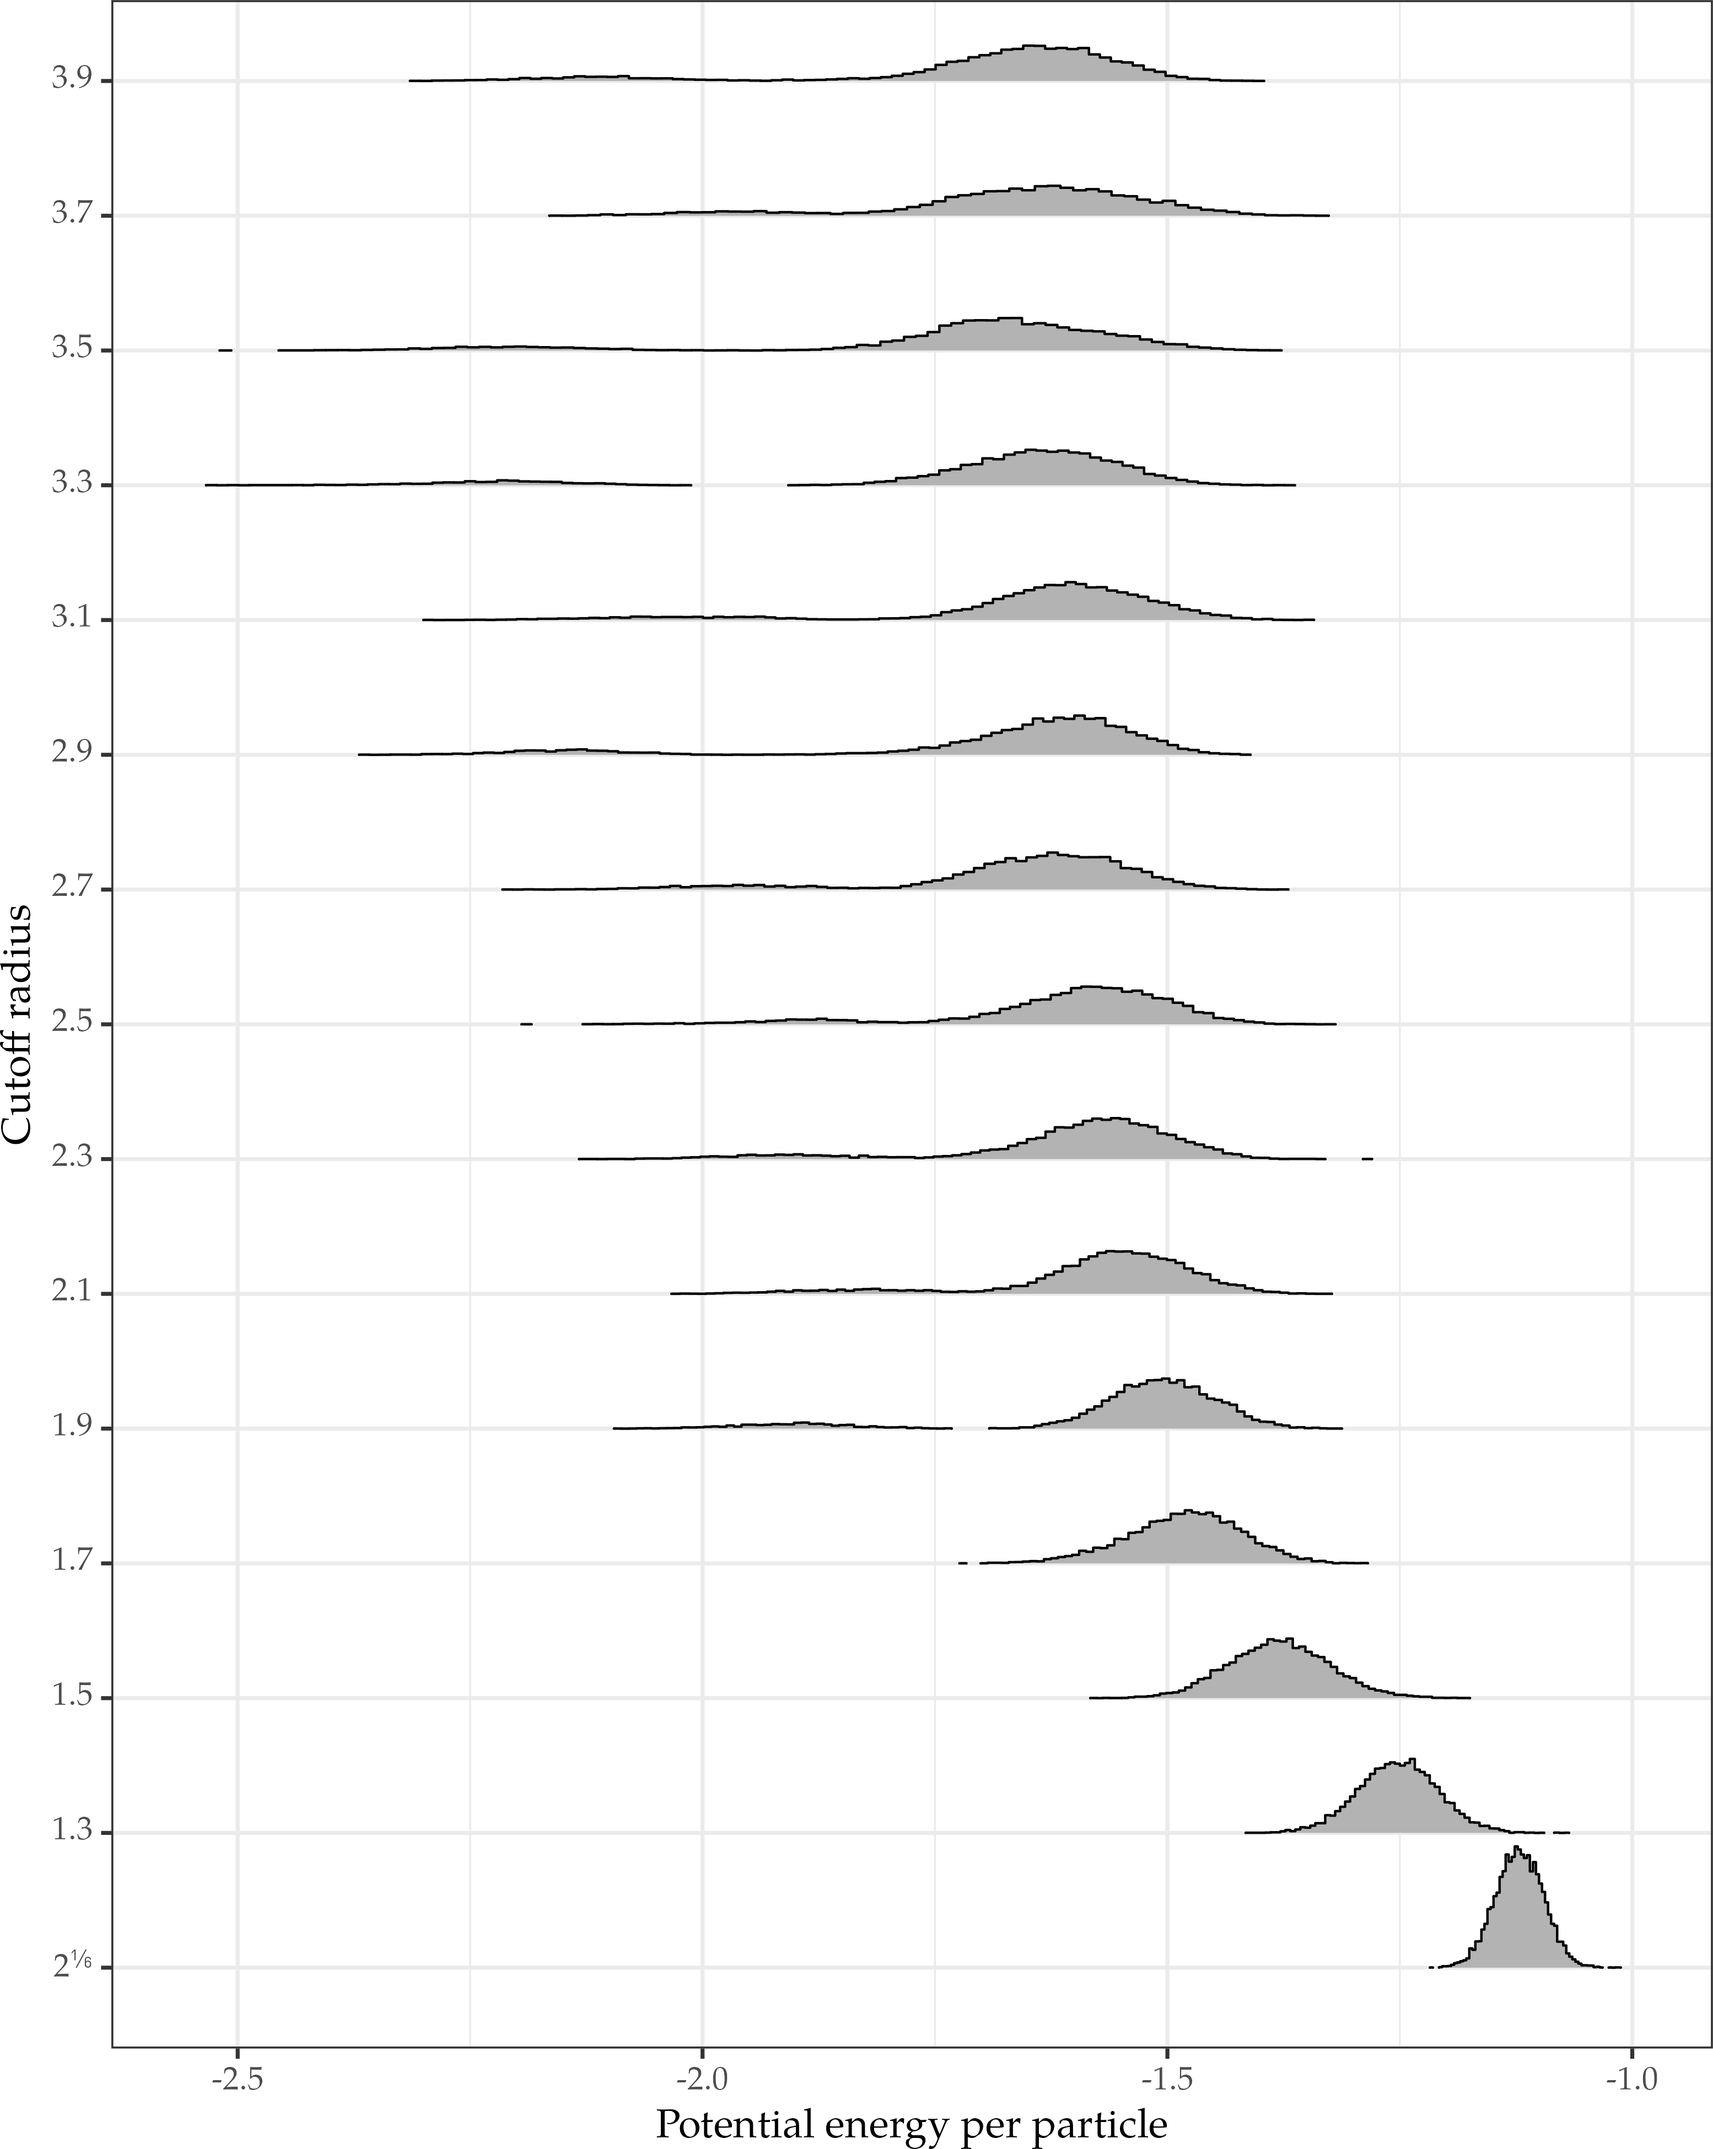
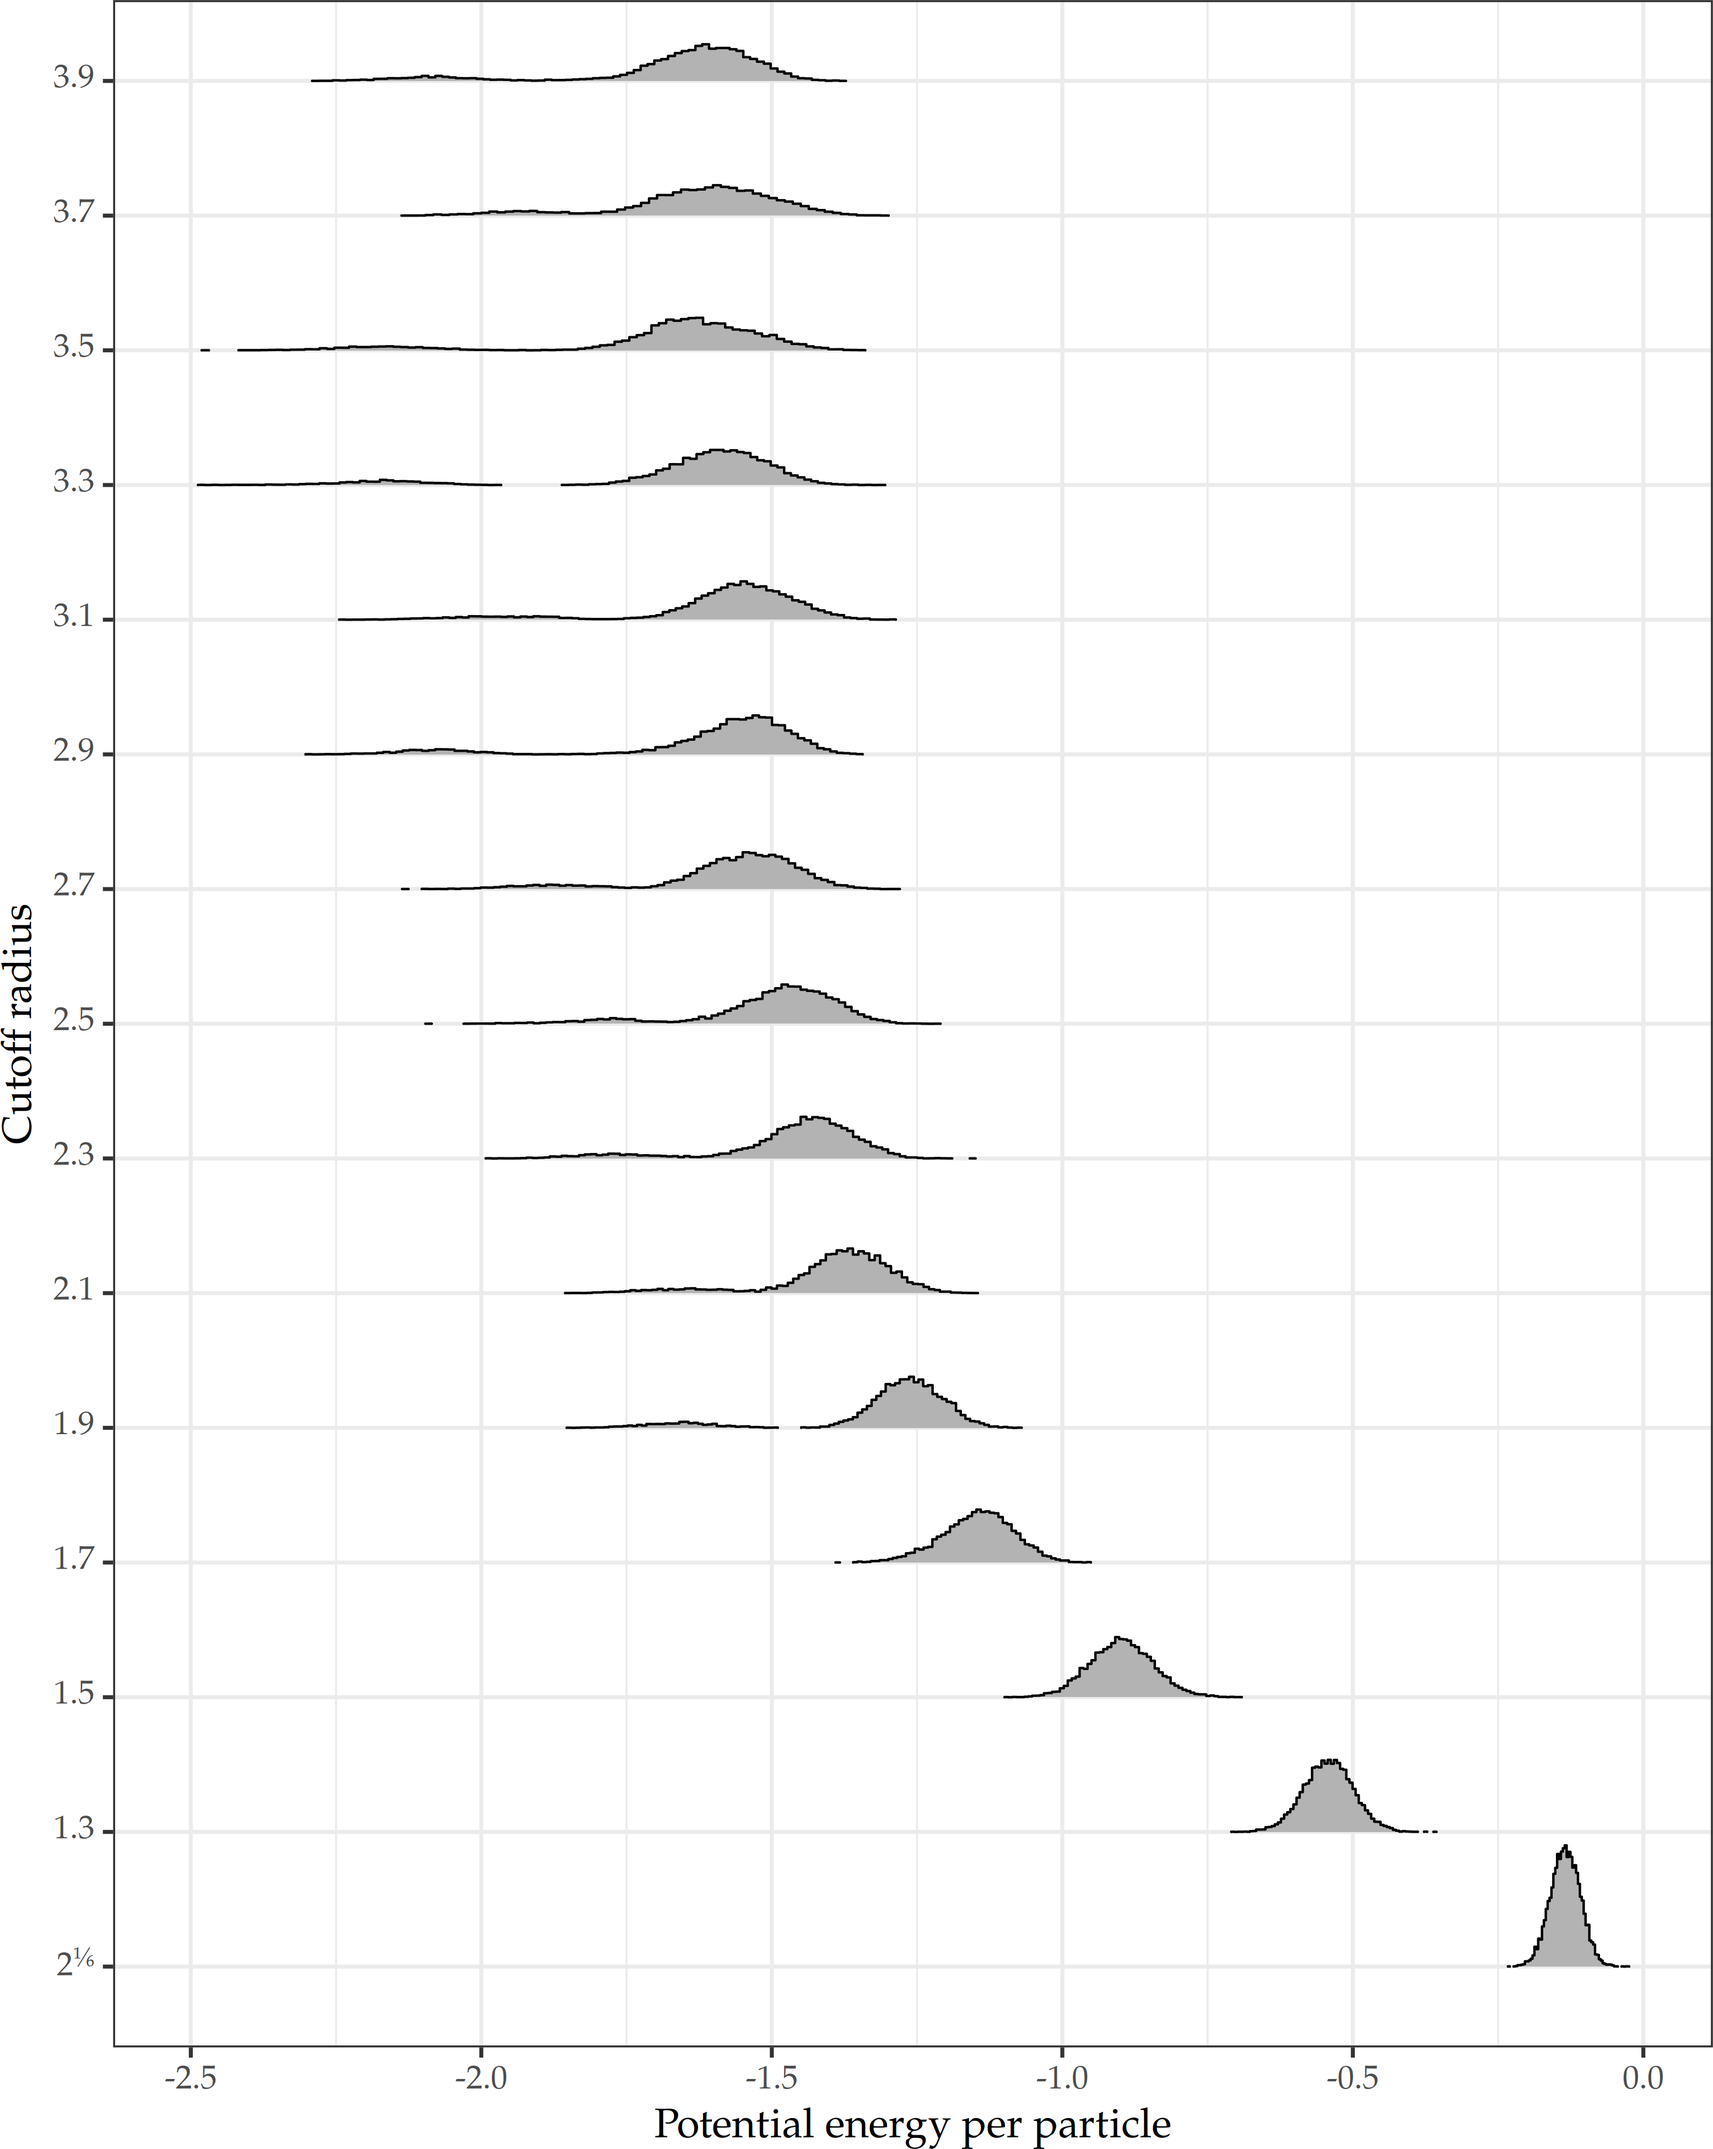
Remove tail corrections in the pot. energy plot from 10.2

diff --git a/tex/sets/10.tex b/tex/sets/10.tex
@@ -112,11 +112,12 @@ from $2^{1/6}$ to \num{3.9} with steps of \num{0.2}, in units of $\sigma$.
 \begin{figure}
   \centering
   \includegraphics{img/102a}
-  \caption{potential energy distributions at different cutoff radii for a
-    Lennard-Jones system of \num{200} particles, box size $L = \num{10}$ and
-    temperature $T = \num{1}$. Each histogram is the aggregate of \num{10}
-    realizations with \num{10000} \abbr{md} steps, sampled every \num{10} steps
-    after an equilibration phase of \num{1000} \abbr{mc} sweeps.}
+  \caption{potential energy distributions, with tail corrections removed, at
+    different cutoff radii for a Lennard-Jones system of \num{200} particles,
+    box size $L = \num{10}$ and temperature $T = \num{1}$. Each histogram is the
+    aggregate of \num{10} realizations with \num{10000} \abbr{md} steps, sampled
+    every \num{10} steps after an equilibration phase of \num{1000} \abbr{mc}
+    sweeps.}
   \label{fig:102a}
 \end{figure}
 
@@ -138,25 +139,22 @@ from $2^{1/6}$ to \num{3.9} with steps of \num{0.2}, in units of $\sigma$.
   \label{fig:102c}
 \end{figure}
 
-\Cref{fig:102a} shows the resulting potential energy distributions overlaid for
-comparison. In general, the distribution broadens and the average decreases as
-the cutoff radius increases. This behaviour is expected, as longer-distance
-interactions lead to a more tightly bound system. In contrast, at smaller values
-of $r_{\mathrm{cut}}$, the fluid behaves almost like a non-interacting gas. This
-trend is further supported by the evolution of the radial distribution function,
-shown in \cref{fig:102b,fig:102c}. When $r_{\mathrm{cut}}$ is small, $g(r)$
-displays a single peak around the equilibrium distance $2^{1/6}$, followed by a
-rapid decay to \num{1}. However, with larger cutoff radii, the first peak grows,
-and a second one appears, indicating a transition to a more liquid phase.
+\Cref{fig:102a} shows the resulting potential energy distributions, with tail
+corrections removed, overlaid for comparison. In general, the distribution
+broadens and the average decreases as the cutoff radius increases. This
+behaviour is expected, as longer-distance interactions lead to a more tightly
+bound system. In contrast, at smaller values of $r_{\mathrm{cut}}$, the fluid
+behaves almost like a non-interacting gas. This trend is further supported by
+the evolution of the radial distribution function, shown in
+\cref{fig:102b,fig:102c}. When $r_{\mathrm{cut}}$ is small, $g(r)$ displays a
+single peak around the equilibrium distance $2^{1/6}$, followed by a rapid decay
+to \num{1}. However, with larger cutoff radii, the first peak grows, and a
+second one appears, indicating a transition to a more liquid phase.
 
 \section{Lennard-Jones fluid with thermostats}
 
 \begin{sourcefiles}
-  \item[Source codes] src/102\_lennard\_jones.c, src/moldyn/integration.c,
-    src/moldyn/integration.h, src/moldyn/observables.c,
-    src/moldyn/observables.h, src/moldyn/parameters.c, src/moldyn/parameters.h
   \item[Analysis script] src/103\_thermostats.R
-  \item[Executable] exe/102\_lennard\_jones
 \end{sourcefiles}
 
 This exercise shares the same source code as the previous one. Inside the
